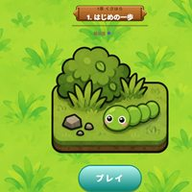
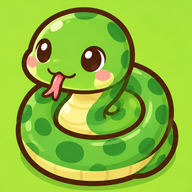
ホーム画面のアイコンを ChatGPT で描き直した絵にする

diff --git a/src/app/+html.tsx b/src/app/+html.tsx
@@ -11,7 +11,7 @@ export default function Root({ children }: PropsWithChildren) {
         <meta name="viewport" content="width=device-width, initial-scale=1, shrink-to-fit=no, viewport-fit=cover" />
         <link rel="manifest" href="/snake-puzzle/manifest.webmanifest" />
         <link rel="apple-touch-icon" href="/snake-puzzle/apple-touch-icon.png" />
-        <meta name="theme-color" content="#8abb34" />
+        <meta name="theme-color" content="#8ed03a" />
         <meta name="apple-mobile-web-app-capable" content="yes" />
         <meta name="mobile-web-app-capable" content="yes" />
         <meta name="apple-mobile-web-app-status-bar-style" content="black-translucent" />
